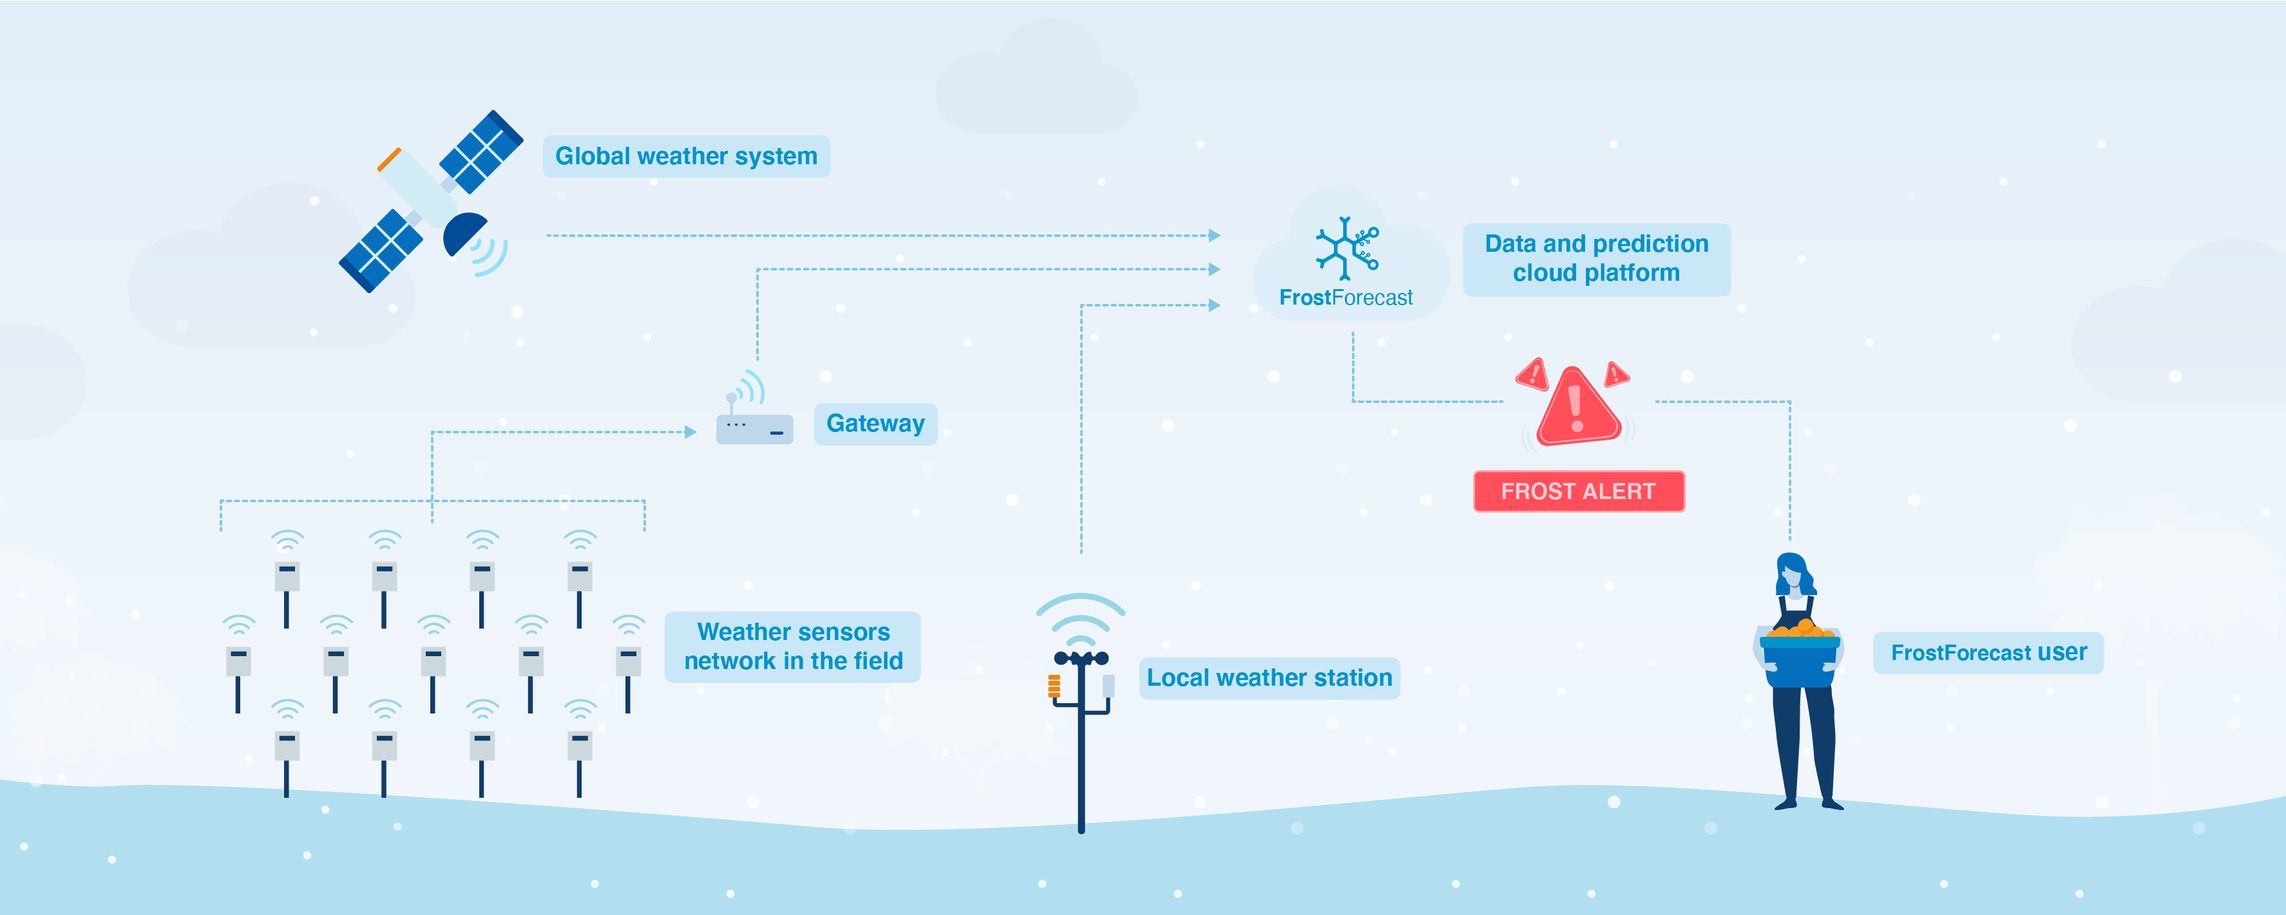
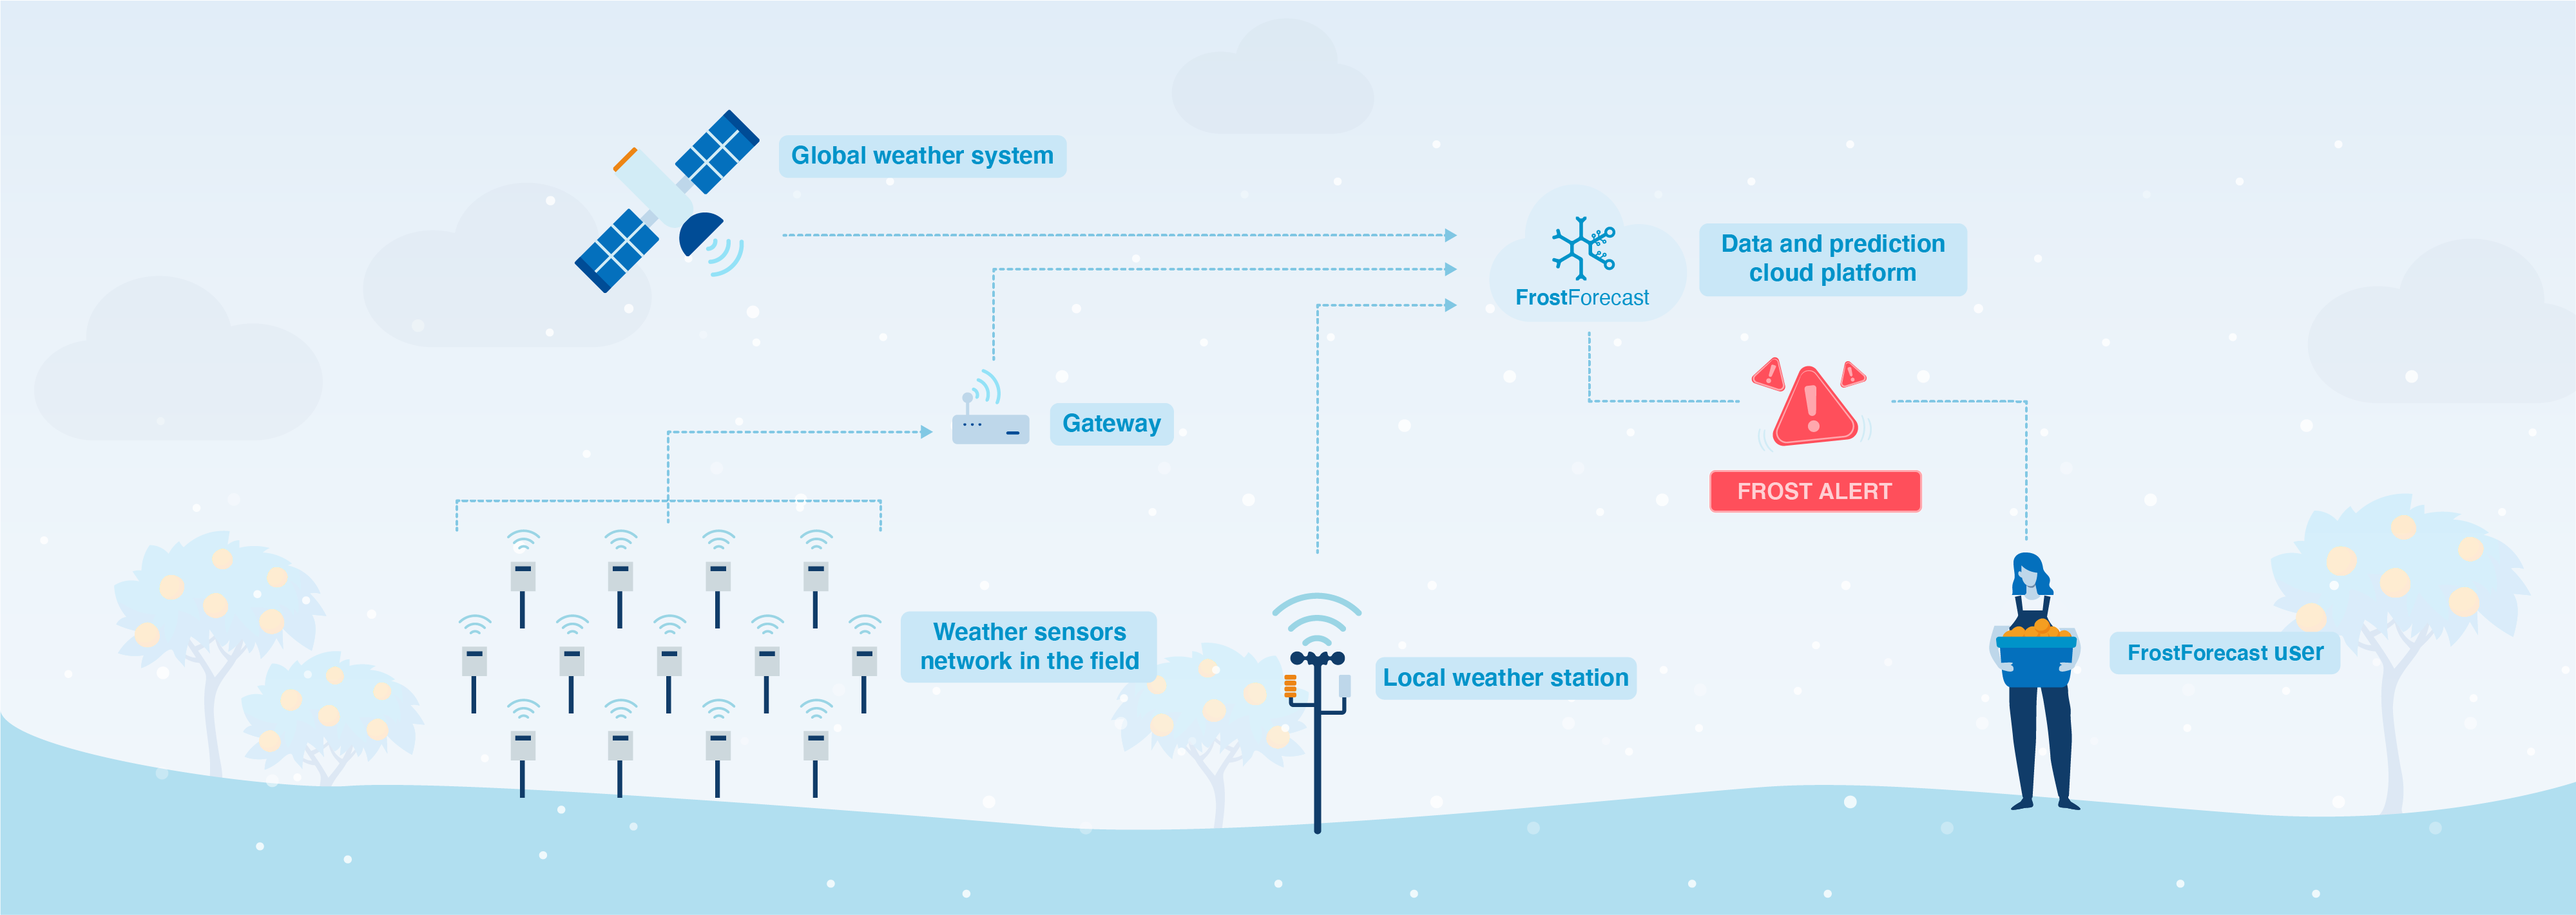
New backgrounds

diff --git a/_sass/_base.scss b/_sass/_base.scss
@@ -55,6 +55,7 @@ p {
 
 .bg-light {
     background-color: #deeaf8;
+    padding-bottom: 0;
 }
 
 .text-faded {
@@ -187,7 +188,7 @@ header {
     background-repeat: no-repeat;
     background-size: cover;
     @media (max-width: 768px) {
-        background-position: 80%;
+        background-position: 90%;
     }
     text-align: center;
     color: white;
@@ -197,8 +198,8 @@ header {
         padding: 100px 15px 100px;
         width: 100%;
         .header-content-inner {
-            max-width: 80% !important;
-            text-align: left !important;
+            max-width: 70% ;
+            text-align: left;
             color: #2b3d4a !important;
             h1 {
                 font-weight: 700;
@@ -214,7 +215,8 @@ header {
                 color: #2b3d4a;
                 font-size: 16px;
                 margin-bottom: 50px;
-                max-width: none !important;
+                margin-left: 0;
+                //max-width: none !important;
             }
         }
     }
@@ -231,10 +233,13 @@ header {
                 max-width: 1000px;
                 margin-left: auto;
                 margin-right: auto;
+                h1 {
+                    max-width: 70%;
+                }
                 p {
                     font-size: 20px;
-                    max-width: 80%;
-                    margin-left: auto;
+                    max-width: 60%;
+                    margin-left: 0;
                     margin-right: auto;
                 }
             }
